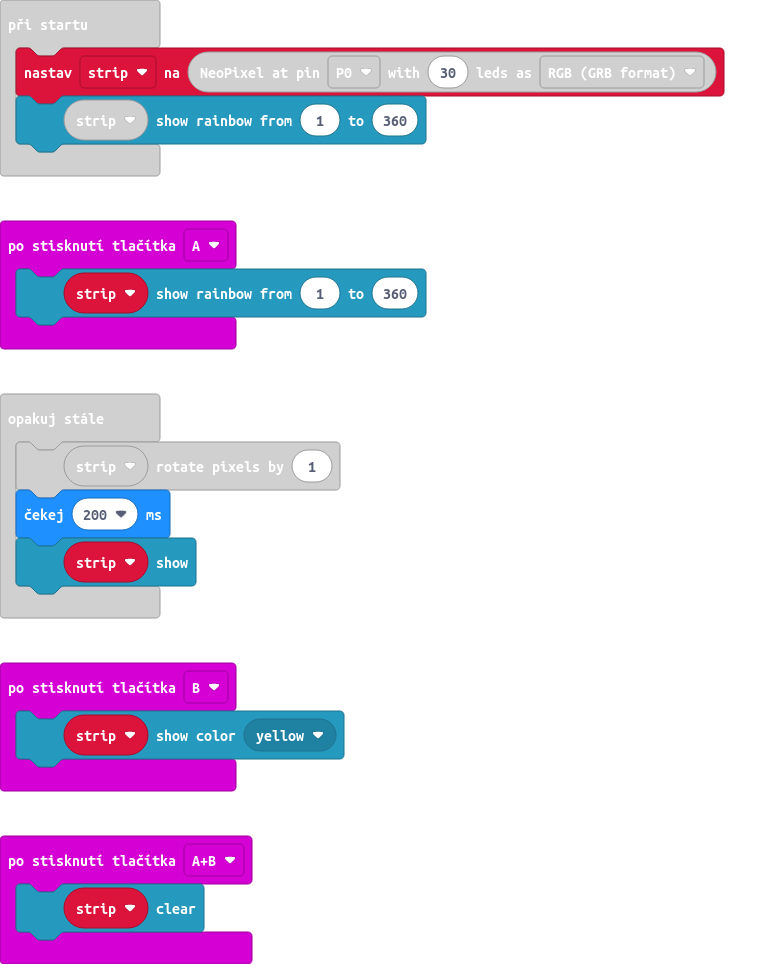
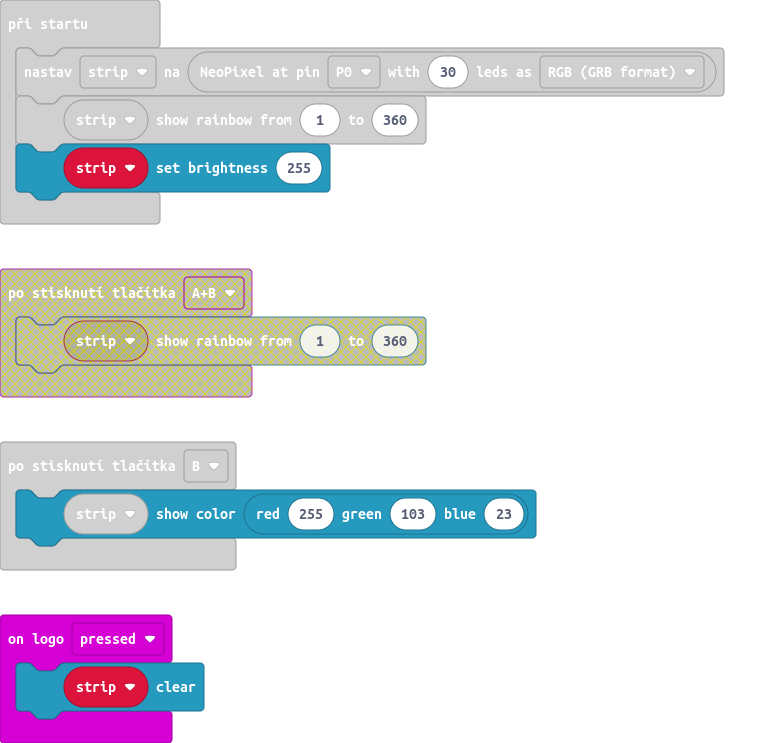
Aktualizovat main.blocks, main.ts

diff --git a/main.ts b/main.ts
@@ -1,15 +1,16 @@
 input.onButtonPressed(Button.A, function () {
-    strip.clear()
-})
-input.onButtonPressed(Button.AB, function () {
     strip.showRainbow(1, 360)
 })
 input.onButtonPressed(Button.B, function () {
-    strip.showColor(neopixel.colors(NeoPixelColors.Yellow))
+    strip.showColor(neopixel.rgb(255, 103, 23))
+})
+input.onLogoEvent(TouchButtonEvent.Pressed, function () {
+    strip.clear()
 })
 let strip: neopixel.Strip = null
 strip = neopixel.create(DigitalPin.P0, 30, NeoPixelMode.RGB)
 strip.showRainbow(1, 360)
+strip.setBrightness(255)
 basic.forever(function () {
     strip.rotate(1)
     basic.pause(200)
